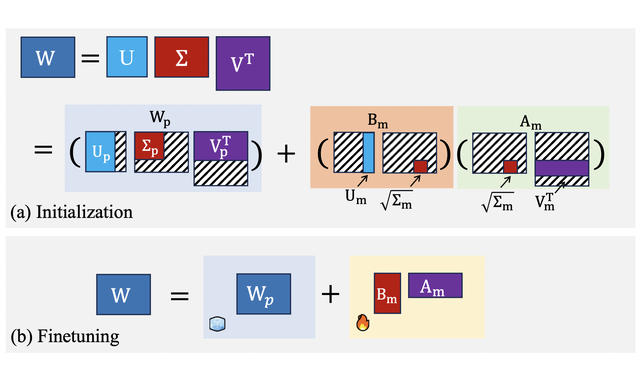
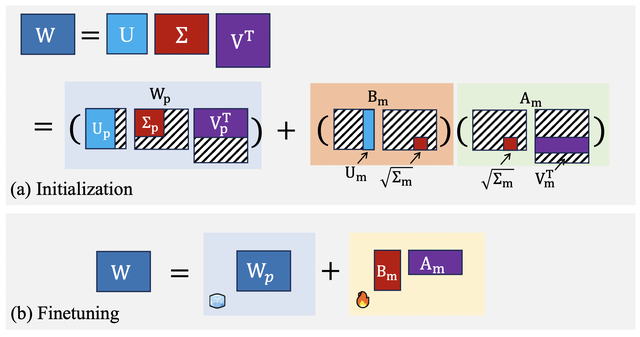
homepage: pub-entry polish — ribbon above image, native aspect, smaller fonts
Owner feedback on the magazine layout:
- Ribbon at top-left was overlapping figure content
- Wide images (lora-flow, stylebart) had big white letterbox bars
- Title/authors/tldr fonts were a bit oversized

Three coordinated fixes:
- Ribbon moved out of the image: now a small pill placed ABOVE the
  image as a flex-column child of .pub-figure. No more overlap on
  any figure regardless of source aspect ratio.
- PNGs regenerated at NATIVE aspect (no letterbox). Each image
  preserves its full source content; teaser height varies per paper
  (lora-flow ~107px, delta-come ~175px, etc.). CSS uses
  width: 320px; height: auto for natural rendering.
- Font scale tightened across pub-content:
  - .pub-title  0.98rem → 0.92rem
  - .pub-authors 0.85rem → 0.80rem
  - .pub-meta   0.80rem → 0.75rem
  - .pub-tldr   0.85rem → 0.80rem

Removed dark-mode .pub-teaser background override (no longer needed
since no letterbox exists in PNG anymore).

diff --git a/_sass/layout/_custom.scss b/_sass/layout/_custom.scss
@@ -314,15 +314,15 @@
 
   .pub-title {
     font-weight: 600;
-    font-size: 0.98rem;
+    font-size: 0.92rem;
     color: var(--global-text-color);
     line-height: 1.4;
   }
 
   .pub-authors {
-    font-size: 0.85rem;
+    font-size: 0.8rem;
     color: var(--global-text-color-light);
-    margin-top: 0.3rem;
+    margin-top: 0.25rem;
     display: block;
     line-height: 1.45;
   }
@@ -819,46 +819,39 @@
   font-weight: 400;
 }
 
-/* Teaser image — left of pub-content. 5:3 aspect, sized for retina display.
-   Source PNGs are 640×384 with white letterbox padding to keep aspect uniform. */
+/* Teaser image — left of pub-content. Native aspect (no letterbox);
+   source PNGs are 640px wide at the figure's natural ratio. */
 .pub-figure {
-  position: relative;
+  display: flex;
+  flex-direction: column;
+  align-items: flex-start;
   flex-shrink: 0;
+  width: 320px;
   margin-right: 1rem;
   align-self: flex-start;
-  border-radius: 4px;
-  overflow: hidden;
-  background-color: var(--global-surface-color);
 }
 
 .pub-teaser {
   display: block;
-  width: 320px;
-  height: 192px;
-  object-fit: contain;
-  background-color: #fff;
+  width: 100%;
+  height: auto;
+  border-radius: 4px;
 }
 
-[data-theme="dark"] .pub-teaser {
-  background-color: #f5f0e8;
-}
-
-/* Venue ribbon overlaid on image top-left */
+/* Venue pill above image — small badge, doesn't cover figure content */
 .pub-ribbon {
-  position: absolute;
-  top: 0.55rem;
-  left: 0;
-  padding: 0.28rem 0.65rem 0.28rem 0.55rem;
+  display: inline-block;
+  padding: 0.22rem 0.7rem;
+  margin-bottom: 0.45rem;
+  border-radius: 4px;
   font-family: "JetBrains Mono", monospace;
-  font-size: 0.65rem;
+  font-size: 0.62rem;
   font-weight: 600;
   color: #fff;
   letter-spacing: 0.06em;
   text-transform: uppercase;
   white-space: nowrap;
-  border-top-right-radius: 4px;
-  border-bottom-right-radius: 4px;
-  box-shadow: 0 2px 5px rgba(0, 0, 0, 0.18);
+  box-shadow: 0 1px 3px rgba(0, 0, 0, 0.12);
 }
 
 .pub-ribbon-acl     { background-color: #5c88a8; }
@@ -873,9 +866,9 @@
   flex-wrap: wrap;
   column-gap: 0.4rem;
   row-gap: 0.2rem;
-  font-size: 0.8rem;
+  font-size: 0.75rem;
   color: var(--global-text-color-light);
-  margin-top: 0.35rem;
+  margin-top: 0.3rem;
 
   a {
     color: var(--global-link-color);
@@ -914,10 +907,10 @@
 
 /* TL;DR bullet line */
 .pub-tldr {
-  margin-top: 0.55rem;
+  margin-top: 0.45rem;
   padding-left: 1.1rem;
-  font-size: 0.85rem;
-  line-height: 1.55;
+  font-size: 0.8rem;
+  line-height: 1.5;
   color: var(--global-text-color);
   position: relative;
 
